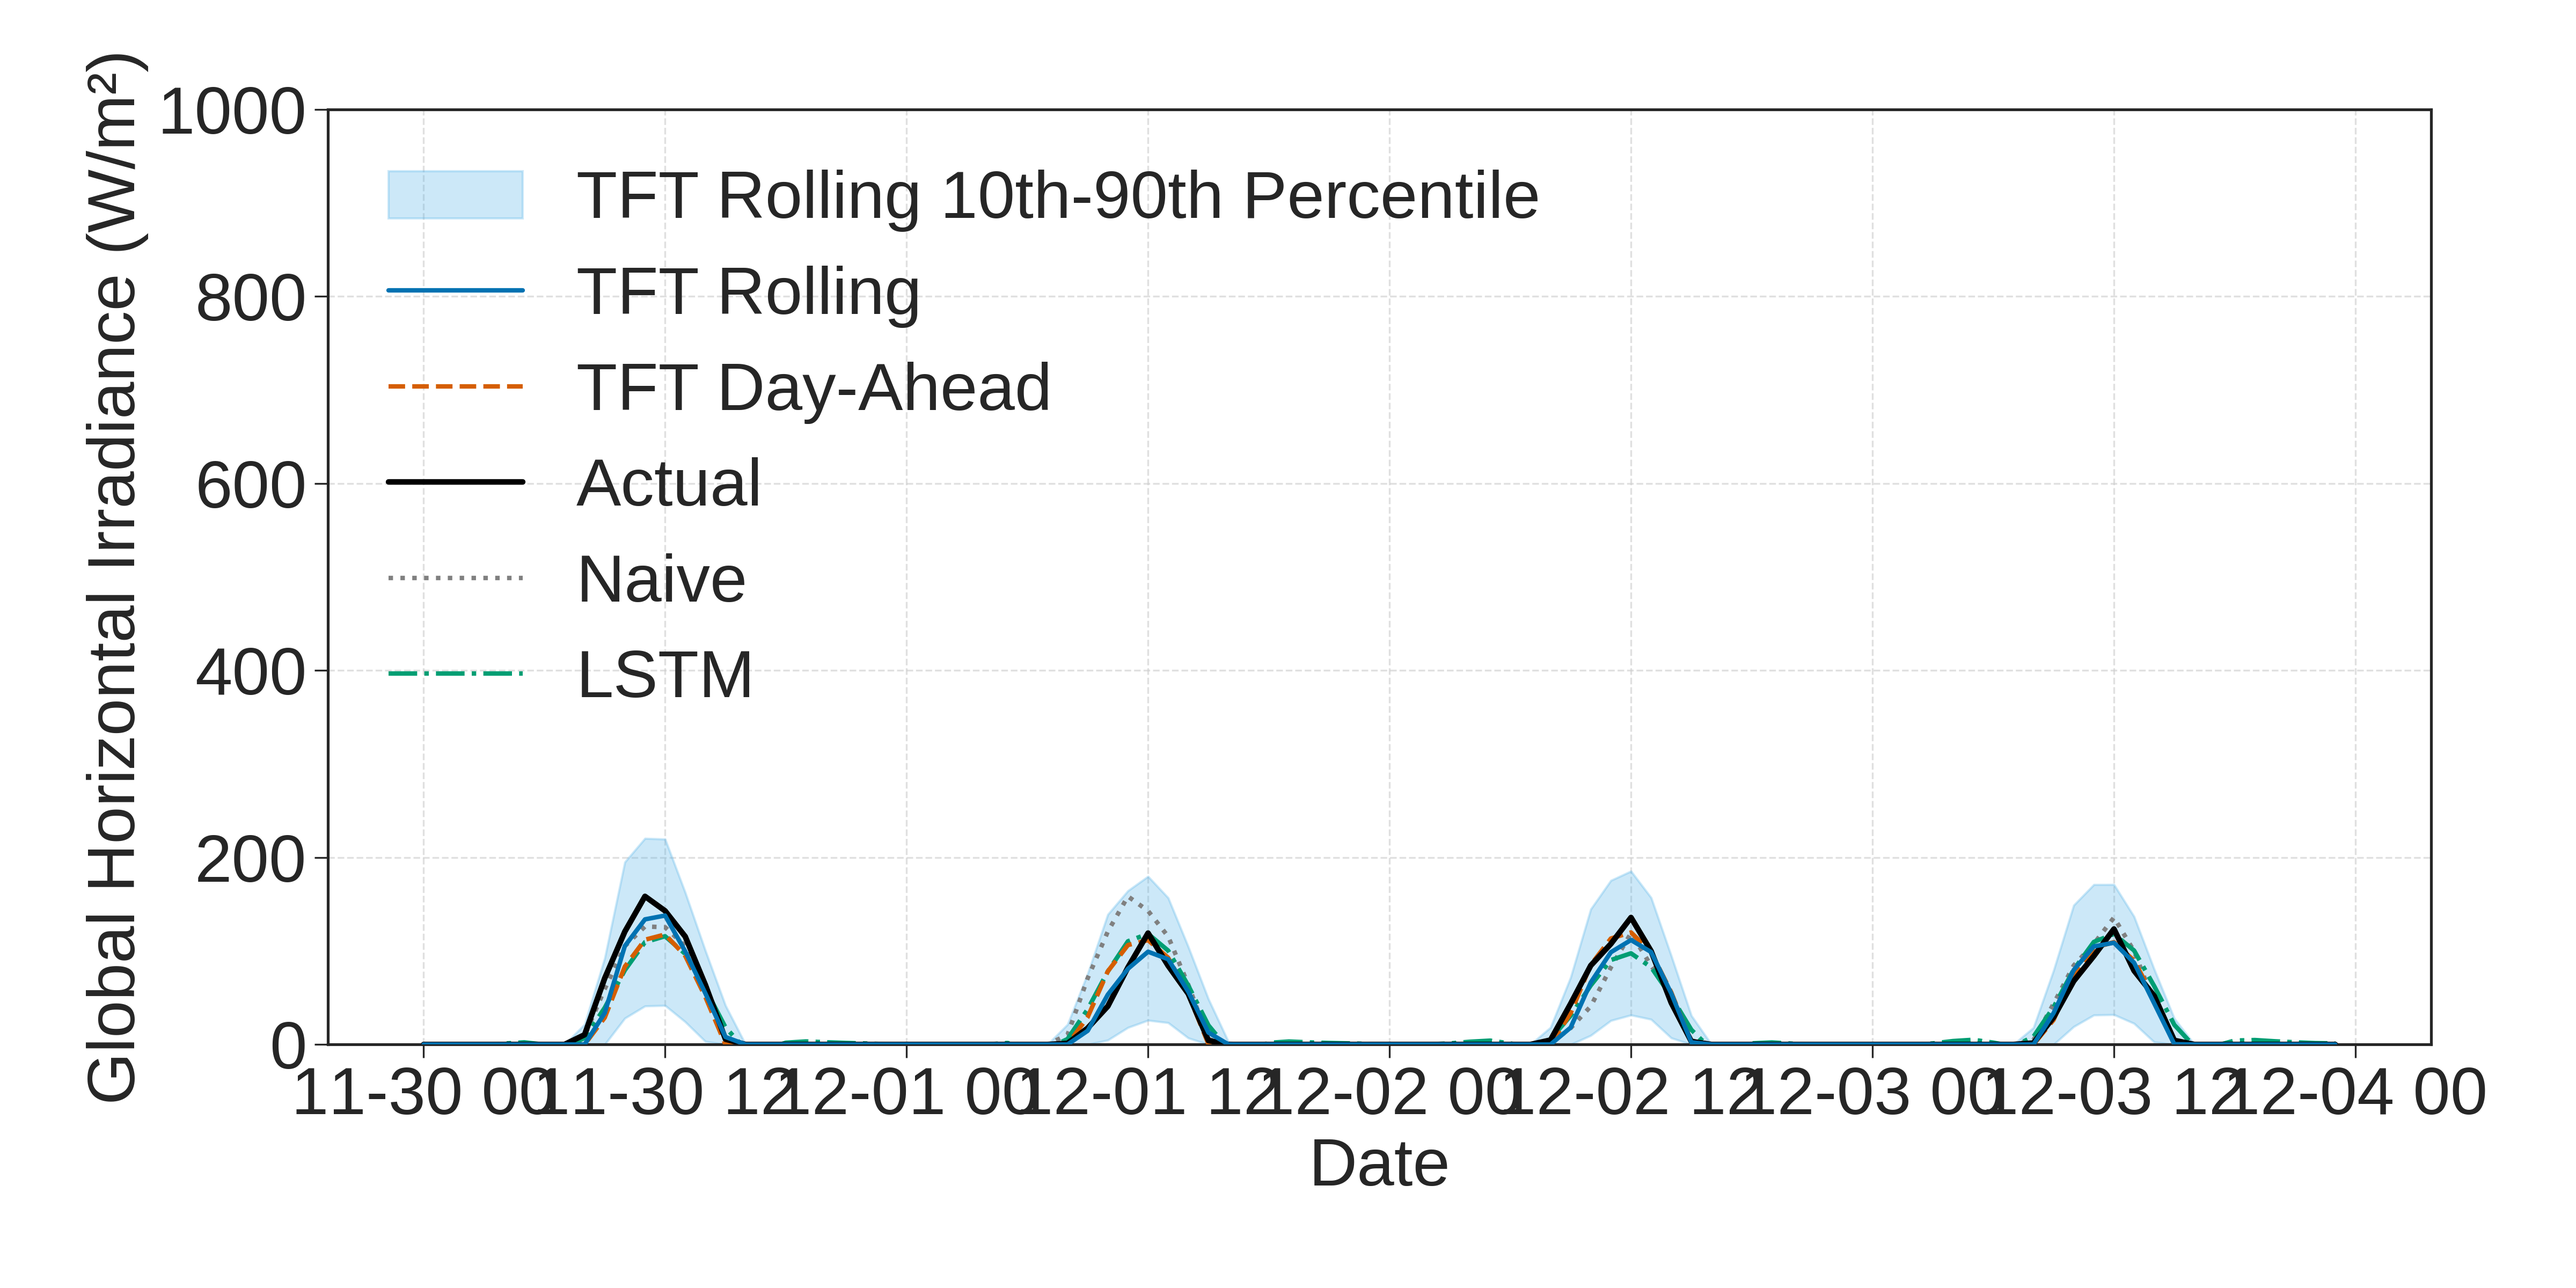
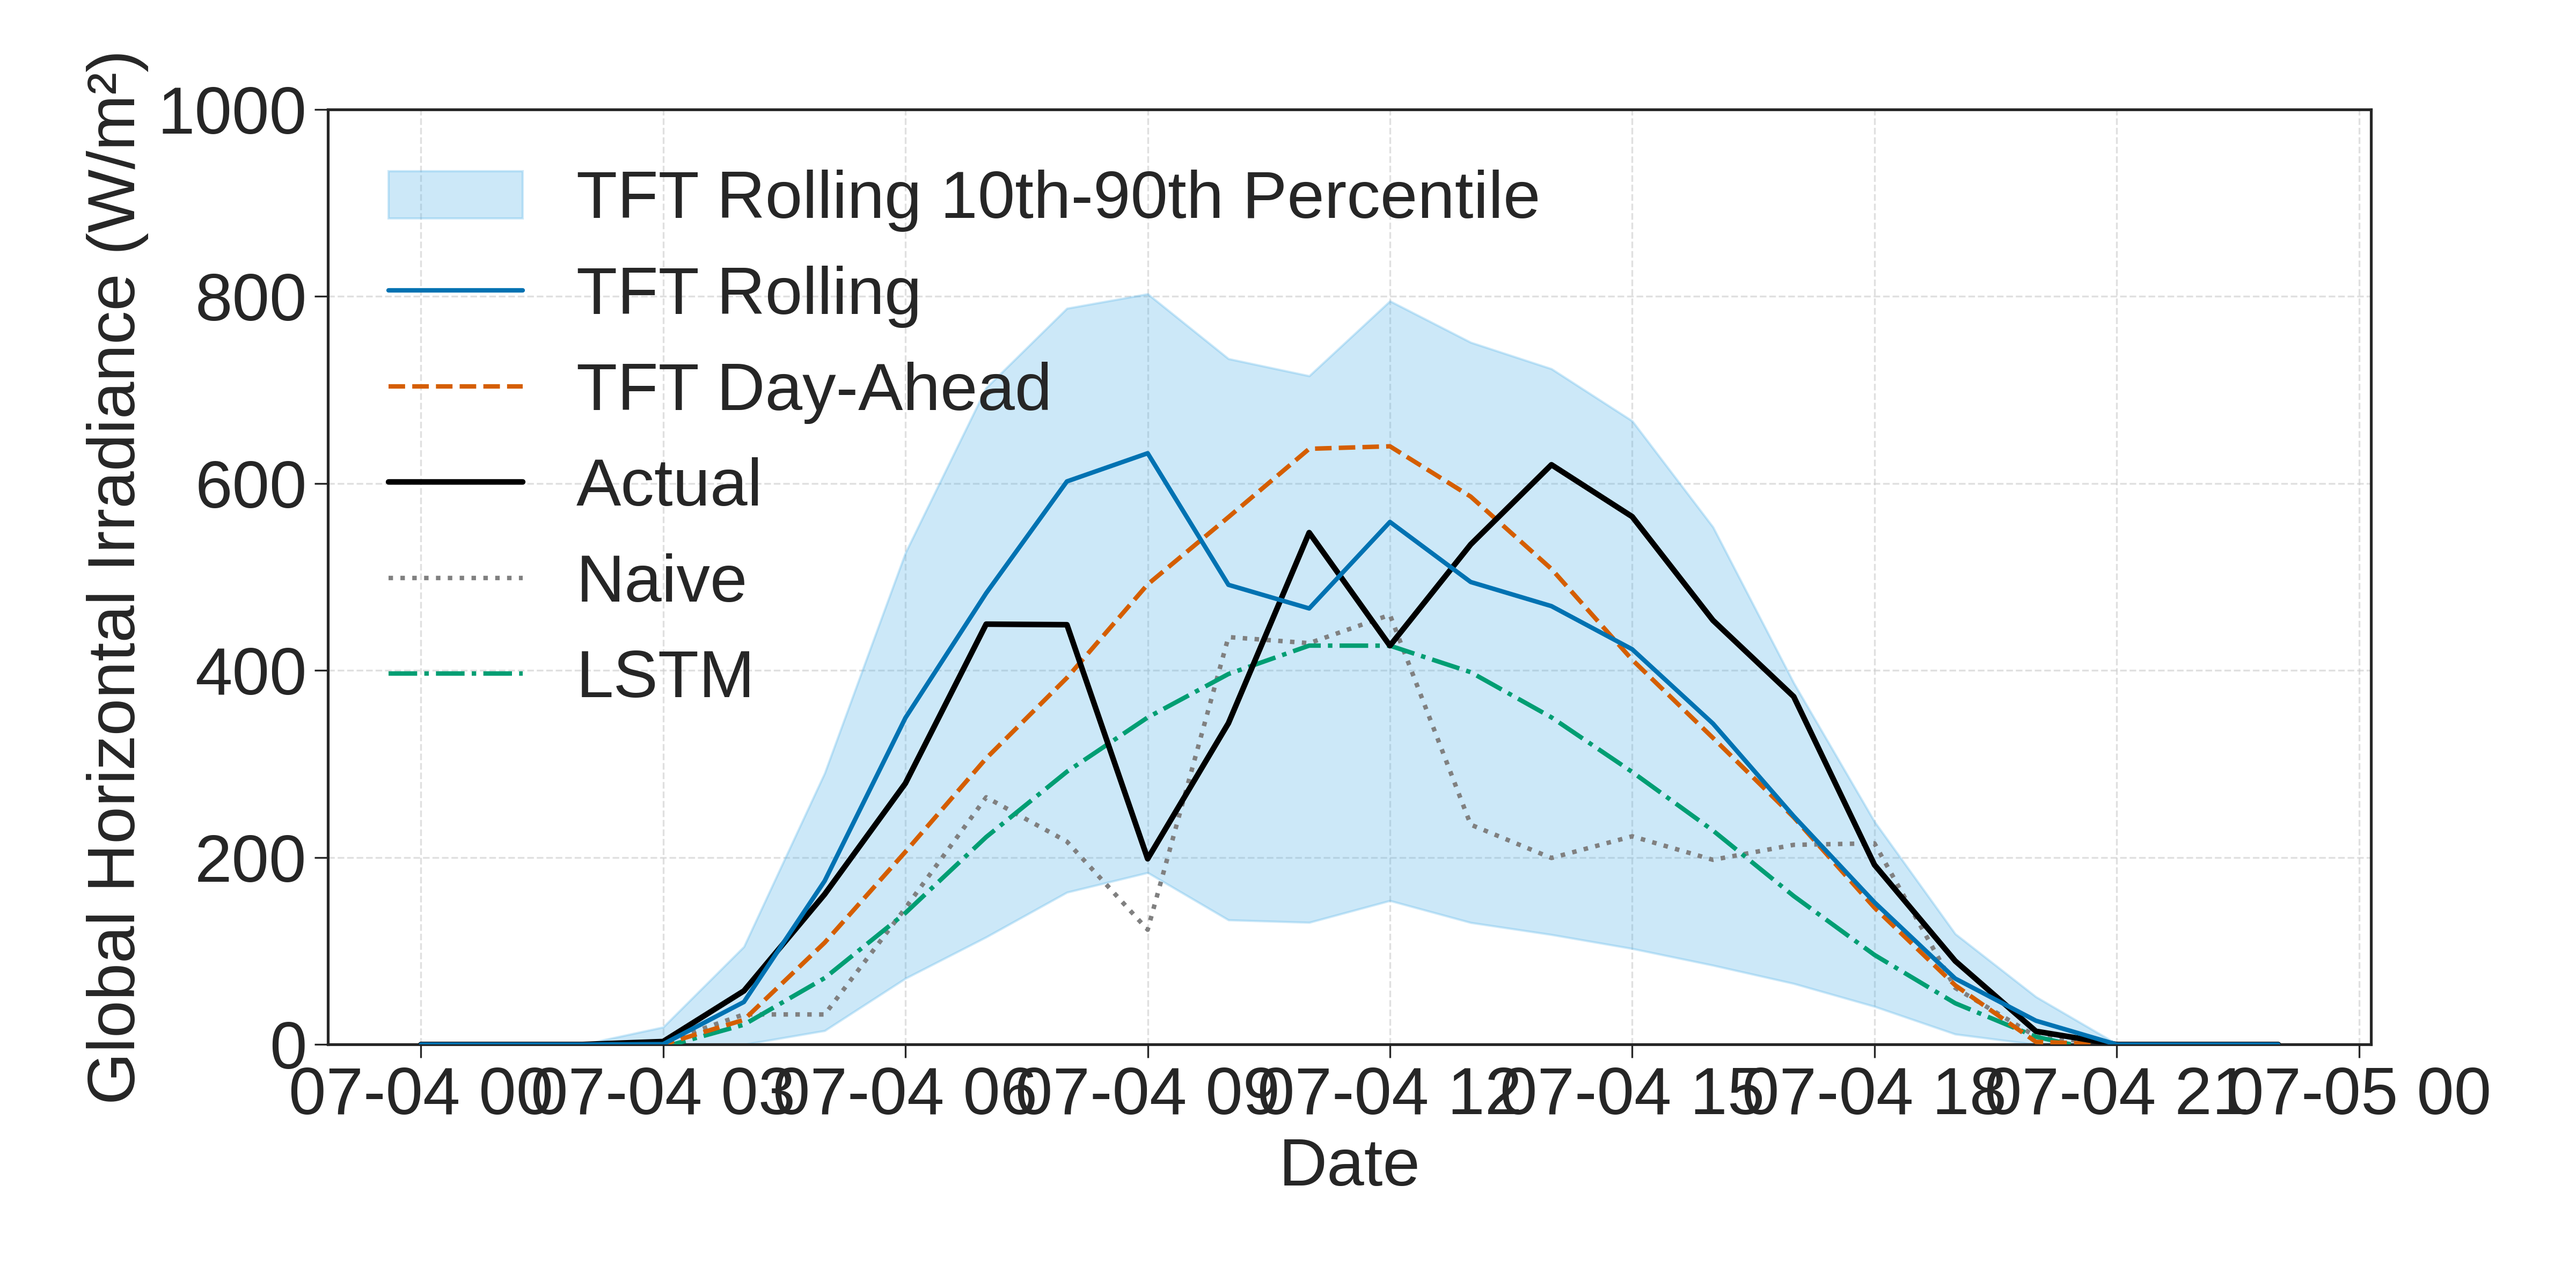
new csv data

Changed region(s): [[0.0938, 0.2188, 0.9688, 0.9375]]

diff --git a/forecasting_models.py b/forecasting_models.py
@@ -342,7 +342,7 @@ def plot_results(results_df, maes, predicting, simulation_hours):
     fig, ax = plt.subplots(figsize=(16, 8))
     
     plot_df = results_df.head(simulation_hours)
-    plot_df.to_csv('4_days_december_t2m.csv')
+    plot_df.to_csv('single_day_forecast_july_t2m.csv')
     
     ax.fill_between(plot_df.index, plot_df['rolling_pred_p10'], plot_df['rolling_pred_p90'], color='#56B4E9', alpha=0.3, label='TFT Rolling 10th-90th Percentile')
     ax.plot(plot_df.index, plot_df['rolling_pred_p50'], label=f'TFT Rolling', color='#0072B2', linewidth=2, zorder=6)
